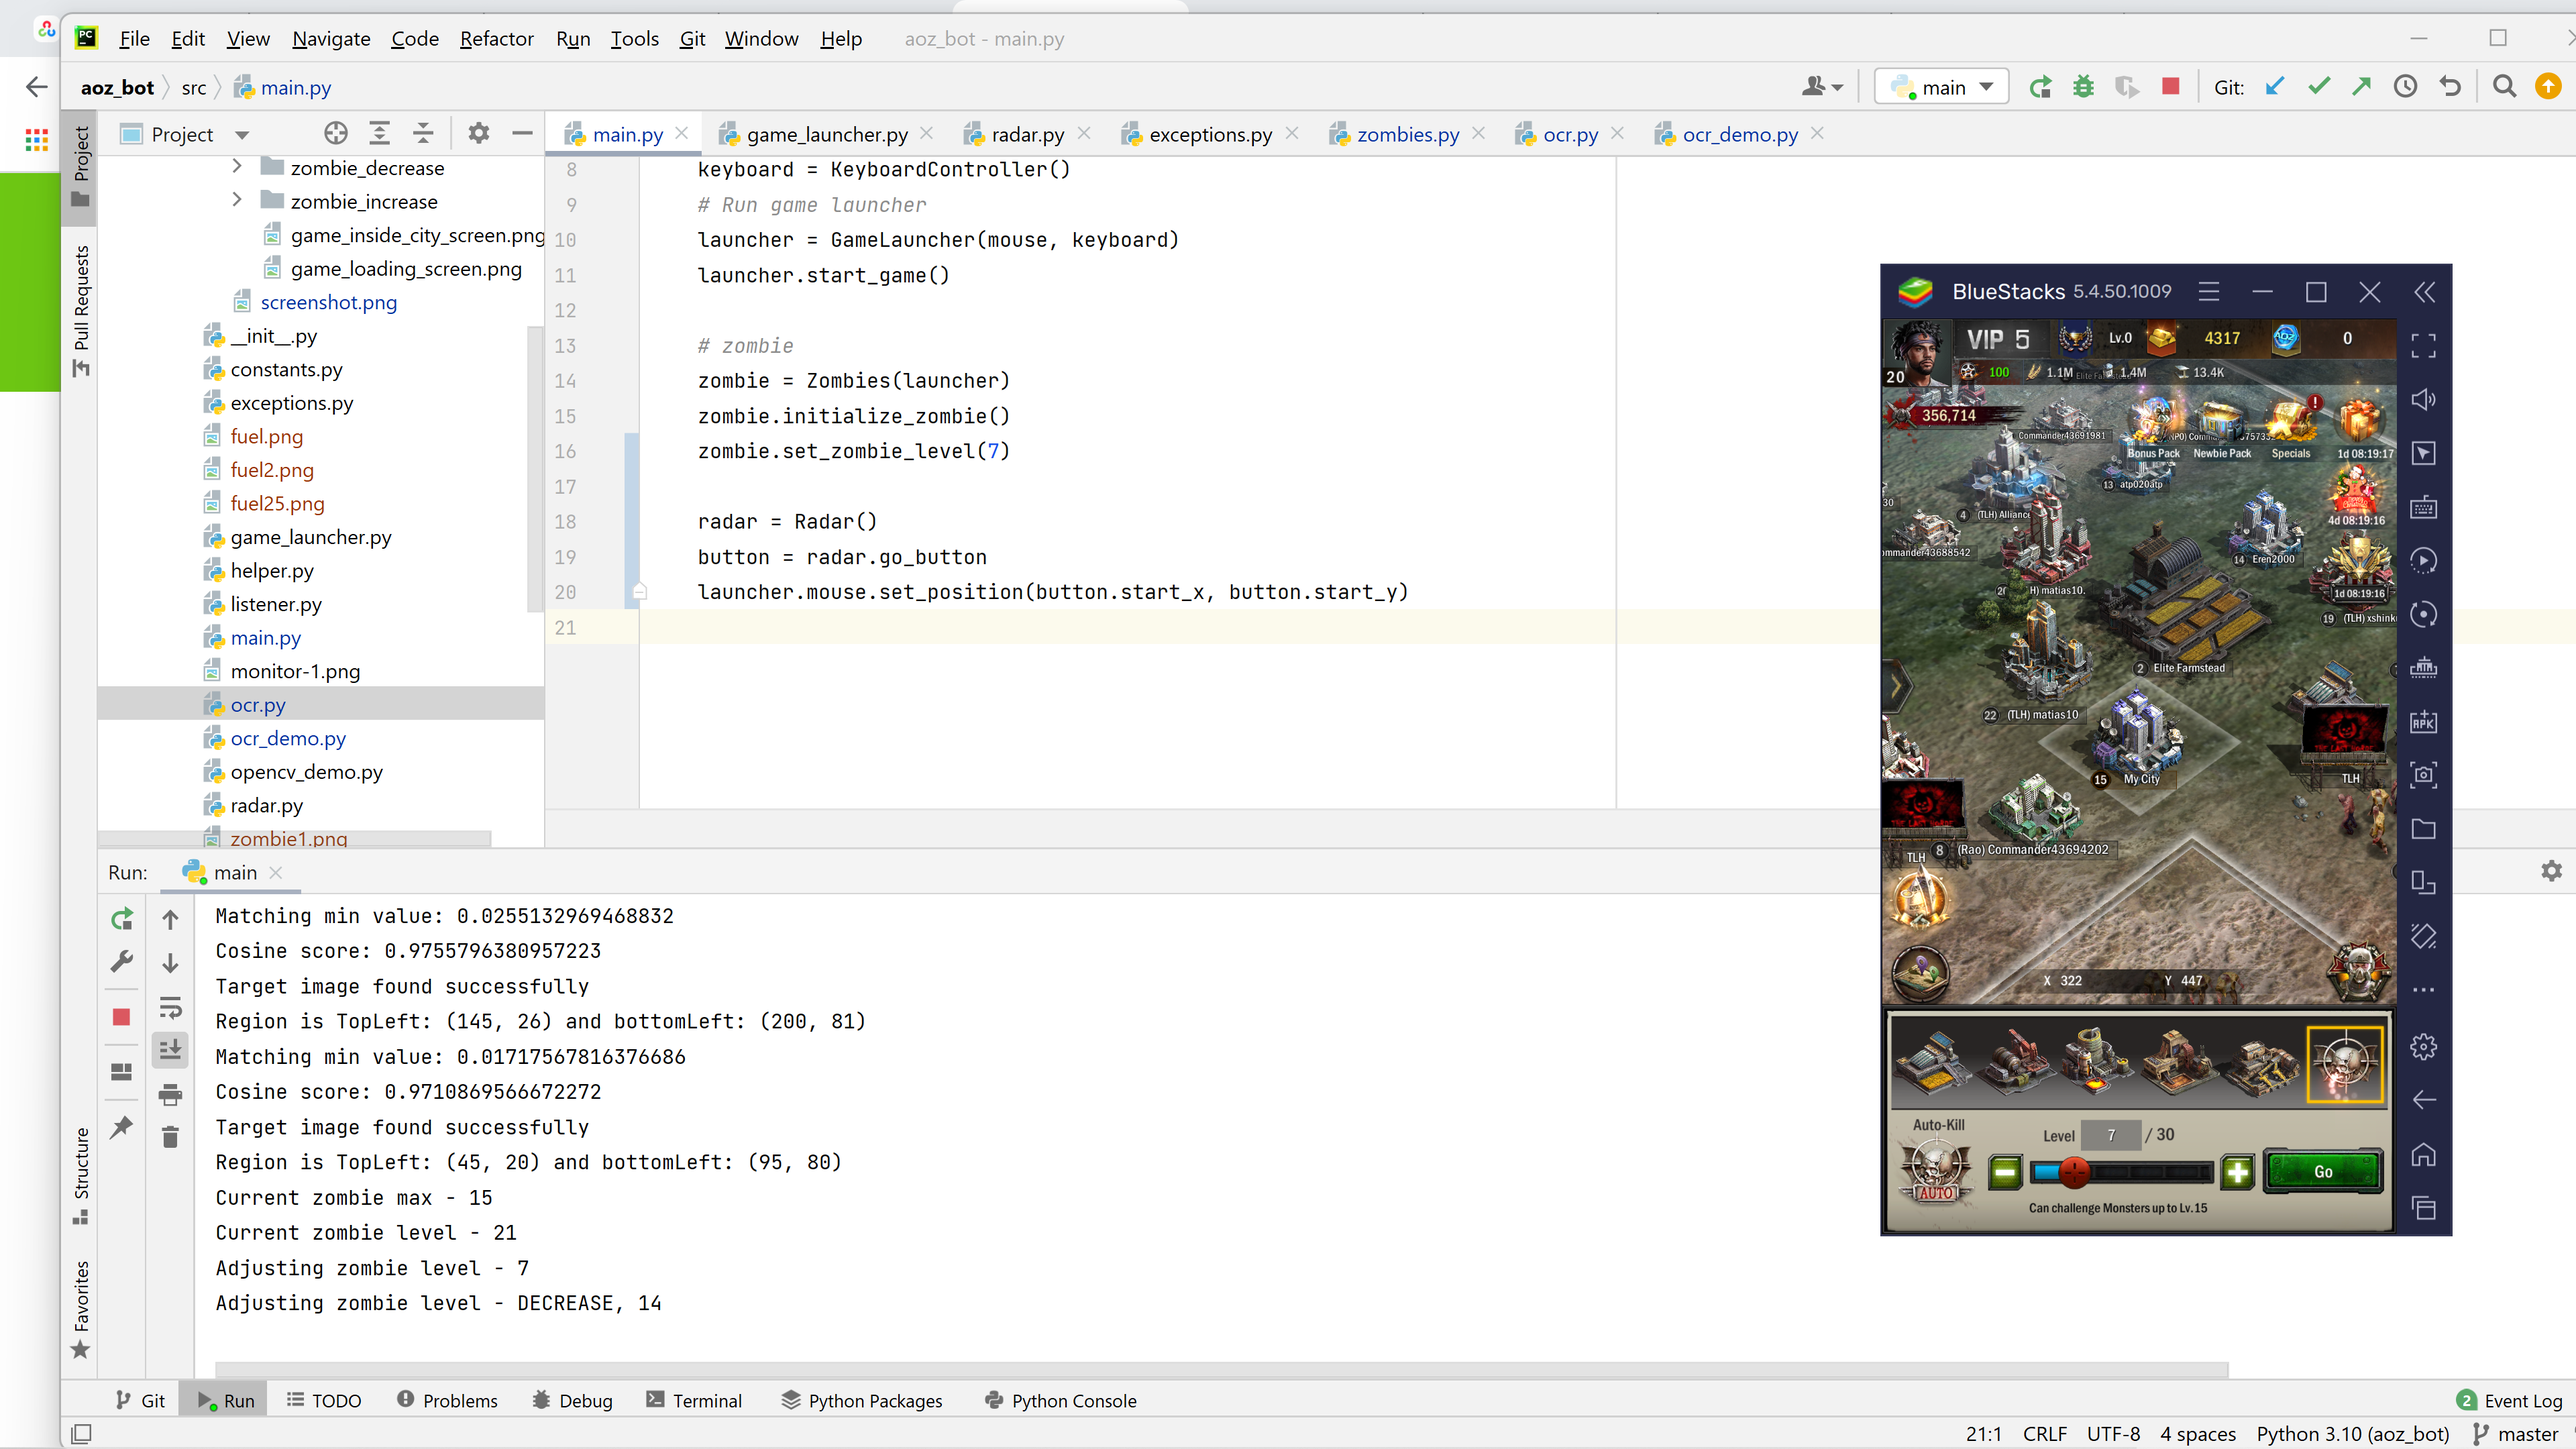
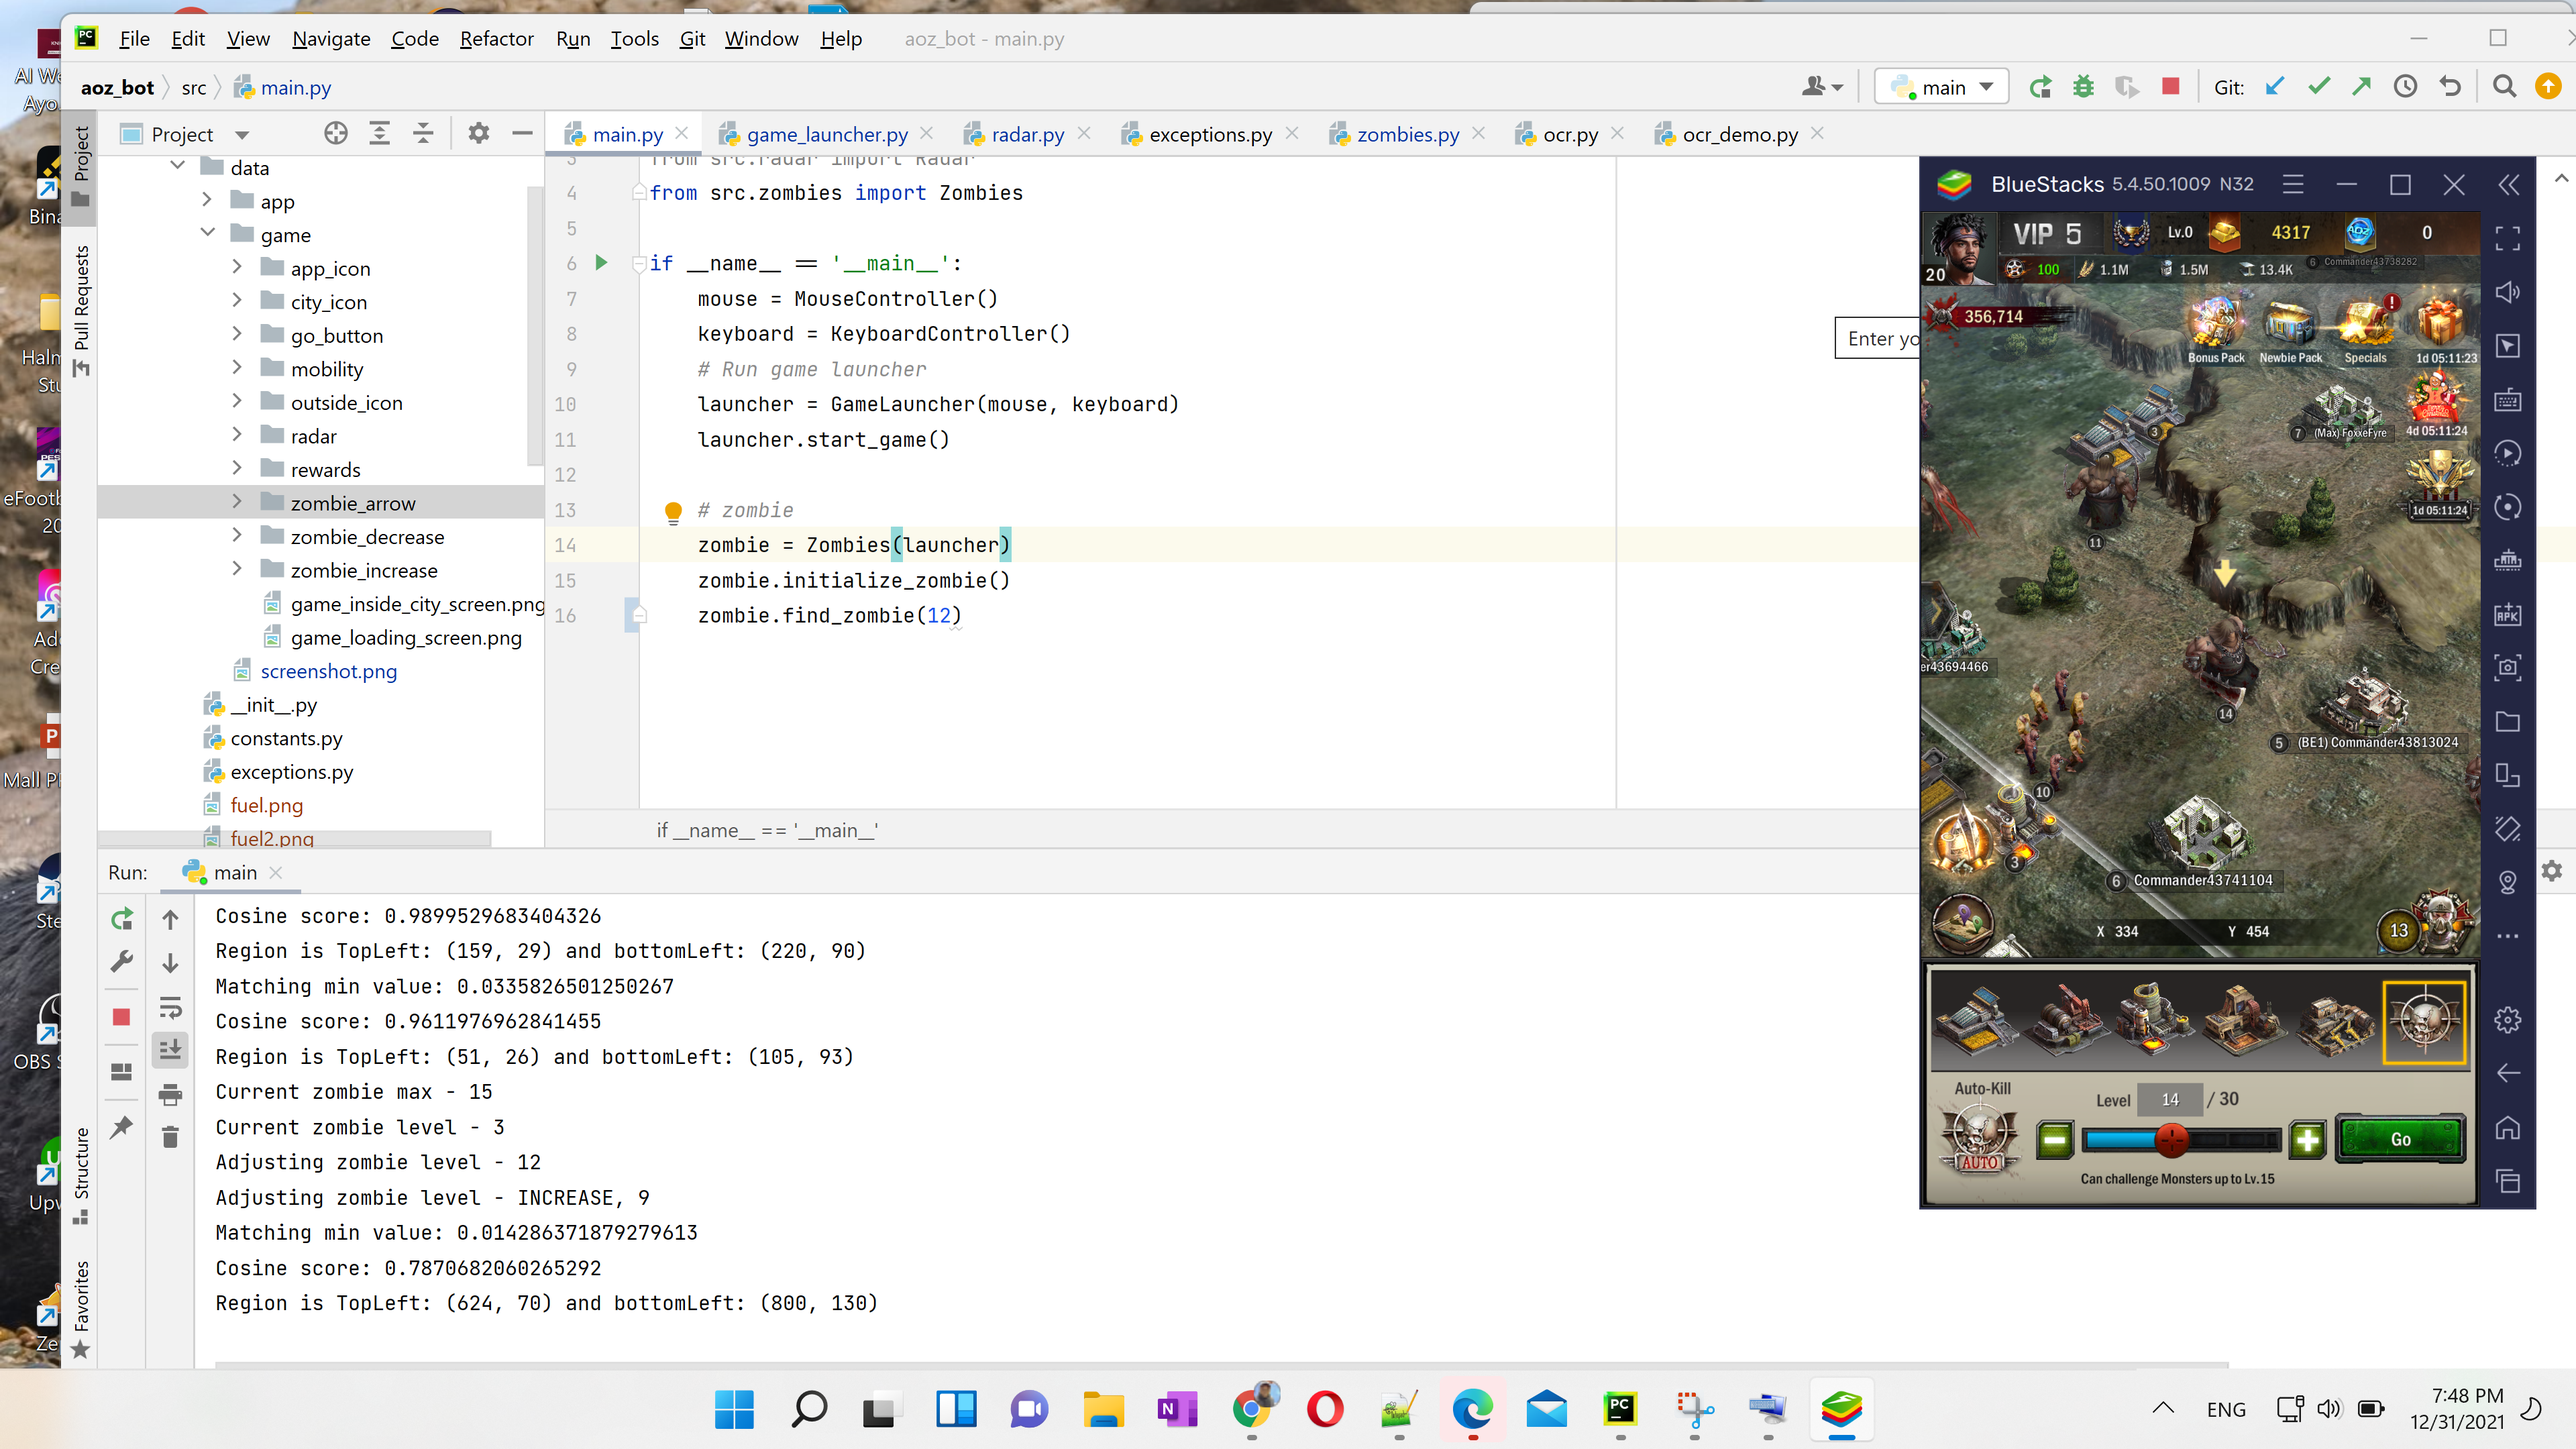
Adds support for finding and selecting a zombie in the map.

Changed region(s): [[0.0, 0.0, 0.75, 1.0], [0.7188, 0.0931, 1.0, 0.8685], [0.7812, 0.9616, 1.0, 1.0]]

diff --git a/src/zombies.py b/src/zombies.py
@@ -5,7 +5,8 @@ from typing import Optional
 import cv2
 import numpy as np
 
-from src.constants import OUTSIDE_VIEW, BOTTOM_IMAGE, LEFT_IMAGE, RIGHT_IMAGE
+from src.constants import OUTSIDE_VIEW, BOTTOM_IMAGE, LEFT_IMAGE, RIGHT_IMAGE, \
+    TOP_IMAGE
 from src.exceptions import ZombieException
 from src.game_launcher import GameLauncher
 from src.helper import GameHelper, Coordinates
@@ -256,7 +257,7 @@ class Zombies:
         time.sleep(1)
         for _ in range(increase_count):
             self.launcher.mouse.click()
-            time.sleep(1)
+            time.sleep(0.5)
 
     def set_zombie_level(self, level: int):
         """
@@ -286,3 +287,43 @@ class Zombies:
         :return:
         """
         self.launcher.set_view(OUTSIDE_VIEW)
+
+    def find_zombie(self, level: int):
+        """
+        Find the a particular zombie of a given level.
+        :return:
+        """
+        self.set_zombie_level(level)
+        button = self.radar.go_button
+        self.launcher.mouse.set_position(button.start_x, button.start_y)
+        center = GameHelper.get_center(button)
+        self.launcher.mouse.move(*center)
+        time.sleep(0.5)
+        self.launcher.mouse.click()
+        time.sleep(2.5)
+        # select the zombie
+        zombie_area_image, zombie_area_cords_relative = \
+            self.launcher.get_screen_section(60, TOP_IMAGE)
+        zombie_area_image, zombie_area_cords_relative = \
+            self.launcher.get_screen_section(80, BOTTOM_IMAGE,
+                                             zombie_area_image,
+                                             zombie_area_cords_relative)
+        cords = self.launcher.find_target(
+            zombie_area_image,
+            self.launcher.target_templates('zombie-arrow'))
+        if not cords:
+            raise ZombieException("No zombie found")
+        cords_relative = GameHelper. \
+            get_relative_coordinates(
+            zombie_area_cords_relative, cords)
+
+        self.launcher.mouse.set_position(cords_relative.start_x,
+                                         cords_relative.end_y + 80)
+        time.sleep(1)
+        self.launcher.mouse.move(1,1)
+        self.launcher.mouse.click()
+        time.sleep(0.8)
+        self.launcher.mouse.click()
+        time.sleep(0.5)
+
+

diff --git a/src/game_launcher.py b/src/game_launcher.py
@@ -52,6 +52,8 @@ class GameLauncher:
         "outside-icon": str(cwd.joinpath("data", "game", "outside_icon")),
         "radar": str(cwd.joinpath("data", "game", "radar")),
         "go-button": str(cwd.joinpath("data", "game", "go_button")),
+        "zombie-arrow": str(cwd.joinpath("data", "game",
+                                         "zombie_arrow")),
         "zombie-decrease": str(cwd.joinpath("data", "game", "zombie_decrease")),
         "zombie-increase": str(cwd.joinpath("data", "game",
                                             "zombie_increase")),
@@ -285,7 +287,7 @@ class GameLauncher:
             self._mouse.move(*center)
             time.sleep(2)
             self._mouse.click()
-            time.sleep(5)
+            time.sleep(7)
             self.log_message("Now in city view mode")
             return
         if view == 2:
@@ -304,7 +306,7 @@ class GameLauncher:
             self._mouse.move(*center)
             time.sleep(2)
             self._mouse.click()
-            time.sleep(5)
+            time.sleep(7)
             self.log_message("Now in outside city view mode")
             return
         raise LauncherException(f"View mode {view} not supported")
@@ -406,7 +408,6 @@ class GameLauncher:
 
         if min_val < 0.55 and cosine_score > 0.50:
             if self._debug:
-                self.log_message("Target image found successfully")
                 self.log_message(
                     f"Region is TopLeft: ({start_x}, {start_y}) and "
                     f"bottomLeft: ({end_x}, {end_y})")

diff --git a/src/radar.py b/src/radar.py
@@ -3,7 +3,7 @@ import time
 
 from src.constants import OUTSIDE_VIEW, BOTTOM_IMAGE, TOP_IMAGE, RIGHT_IMAGE
 from src.exceptions import RadarException
-from src.game_launcher import GameLauncher
+from src.game_launcher import GameLauncher, display_image
 from src.helper import Coordinates, GameHelper
 
 
@@ -36,6 +36,8 @@ class Radar:
         Activates the radar in the outside city
         :return:
         """
+        self.launcher.log_message(
+            "################ Finding the radar ################")
         self.launcher.set_view(OUTSIDE_VIEW)
         radar_area_image, radar_area_coords_relative = \
             self.launcher.get_screen_section(23, BOTTOM_IMAGE)
@@ -46,6 +48,9 @@ class Radar:
         coords = self.launcher.find_target(
             radar_area_image,
             self.launcher.target_templates('radar'))
+        display_image(radar_area_image[coords.start_y:coords.end_y,
+                      coords.start_x:coords.end_x])
+
         if not coords:
             raise RadarException("Radar icon could not be found.")
         coords_relative = GameHelper. \

diff --git a/src/main.py b/src/main.py
@@ -1,6 +1,5 @@
 from src.game_launcher import GameLauncher
 from src.listener import MouseController, KeyboardController
-from src.radar import Radar
 from src.zombies import Zombies
 
 if __name__ == '__main__':
@@ -13,8 +12,4 @@ if __name__ == '__main__':
     # zombie
     zombie = Zombies(launcher)
     zombie.initialize_zombie()
-    zombie.set_zombie_level(7)
-
-    radar = Radar()
-    button = radar.go_button
-    launcher.mouse.set_position(button.start_x, button.start_y)
+    zombie.find_zombie(12)
